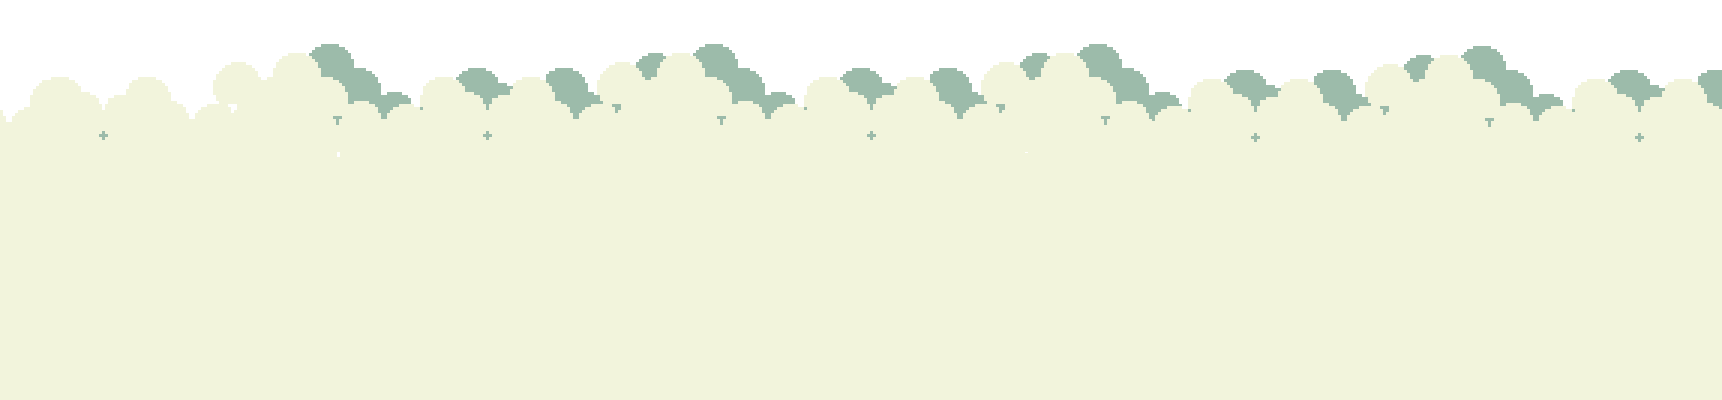
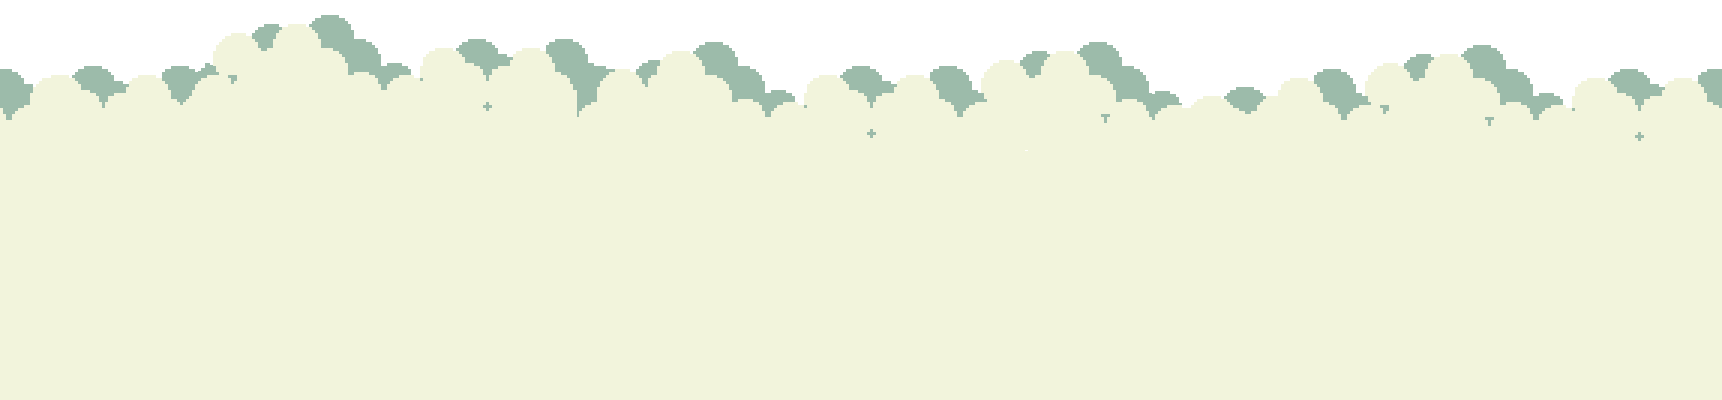
Adjust clouds to make them a little more organic

diff --git a/games/sparklite.html b/games/sparklite.html
@@ -87,7 +87,7 @@ icon: "/assets/sparklite/favicon.png"
     <div class="clouds cloud-bottom">
       <div class="cloud-puffs">
         <img src="/assets/sparklite/cloud-puff-med.png" class="cloud-puff rellax" data-rellax-speed="7"
-          style="left: -60px; top: 95vh;"/>
+          style="left: -60px; top: 118vh;"/>
         <img src="/assets/sparklite/cloud-puff-wide.png" class="cloud-puff rellax" data-rellax-speed="5"
           style="right: -175px; top: 105vh;"/>
         <img src="/assets/sparklite/cloud-puff-small.png" class="cloud-puff rellax" data-rellax-speed="6"
